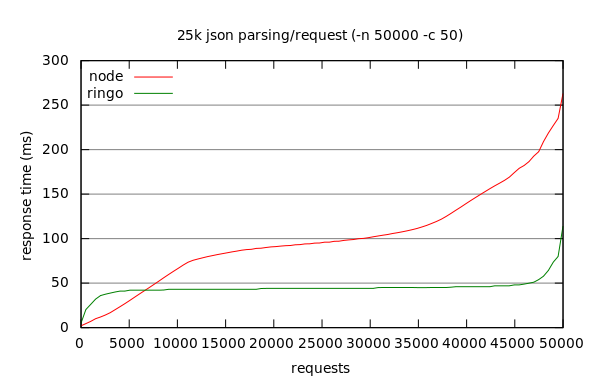
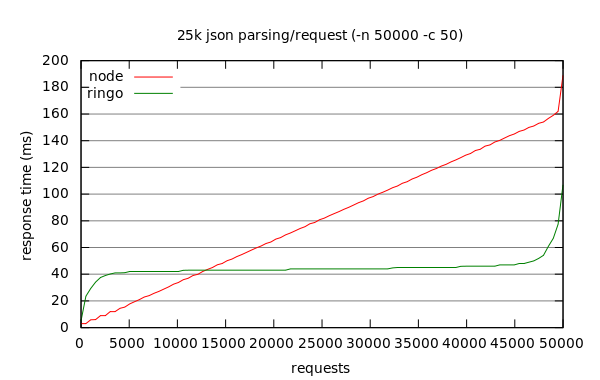
Updated benchmark2 with patch from isaacs and comments from @mraleph

diff --git a/_posts/2010-09-29-benchmark2.md b/_posts/2010-09-29-benchmark2.md
@@ -25,17 +25,35 @@ each of which contain 10 short string properties.
 
 The results I got reinforce those of the
 [other benchmarks][memory allocation comparison], with Node.js scoring
-`495` requests per second and RingoJS `1116`. This is even more noteworthy
+`613` requests per second and RingoJS `1123` (this result was updated from the
+original post, see [notes](#notes) below). This is even more noteworthy
 as it builds on a Hello-World HTTP benchmark where Node clearly outperforms
 Ringo! Here's the graph showing the distribution of response times across all
 50,000 requests made:
 
 ![benchmark result graph](/images/benchmark/parse-json.png)
 
-At this point, I can't think of any other conclusion than V8's garbage collector
-not being tuned for this kind of workload. Still, if you think there's something
-to boost Node's performance in this benchmark that I didn't know about please
-let me know by posting a comment below.
+My original concusion was to blame the V8's garbage collector for not being
+tuned to deal with the workload generated by my benchmarks. But after some
+feedback from Node and V8 developers (see notes below), it looks like the
+problem is more complicated than that. What can be said is that Node
+performance degrades notably with very high levels of memory allocation,
+be it buffers, strings, or objects. It'll be interesting to see whether Node/V8
+will be able to detect and solve these problems.
+
+### Notes <a name="notes"> </a>
+
+ 1. Update: I reran the benchmark after [Isaac Schlueter](http://foohack.com/)
+ pointed out problems with serving strings in Node and
+[provided a patch](http://github.com/hns/ringo-node-benchmark/pull/1). The
+original results I published for Node and Ringo were `495` and `1116` reqs/sec,
+respectively.
+
+ 2. Update: V8 developer [Vyacheslav Egorov](http://www.mraleph.info/) provided
+ some insight in his [Hacker News comments](http://news.ycombinator.com/item?id=1739995).
+ It looks like it's not the V8 GC that is to blame for the performance
+ degradation after all, and more research is needed to find the bottlenecks.
+ I apologize for putting the blame on the GC and updated my conclusion accordingly.
 
 [Ryan]: http://tinyclouds.org/
 [Node.js]: http://nodejs.org/
